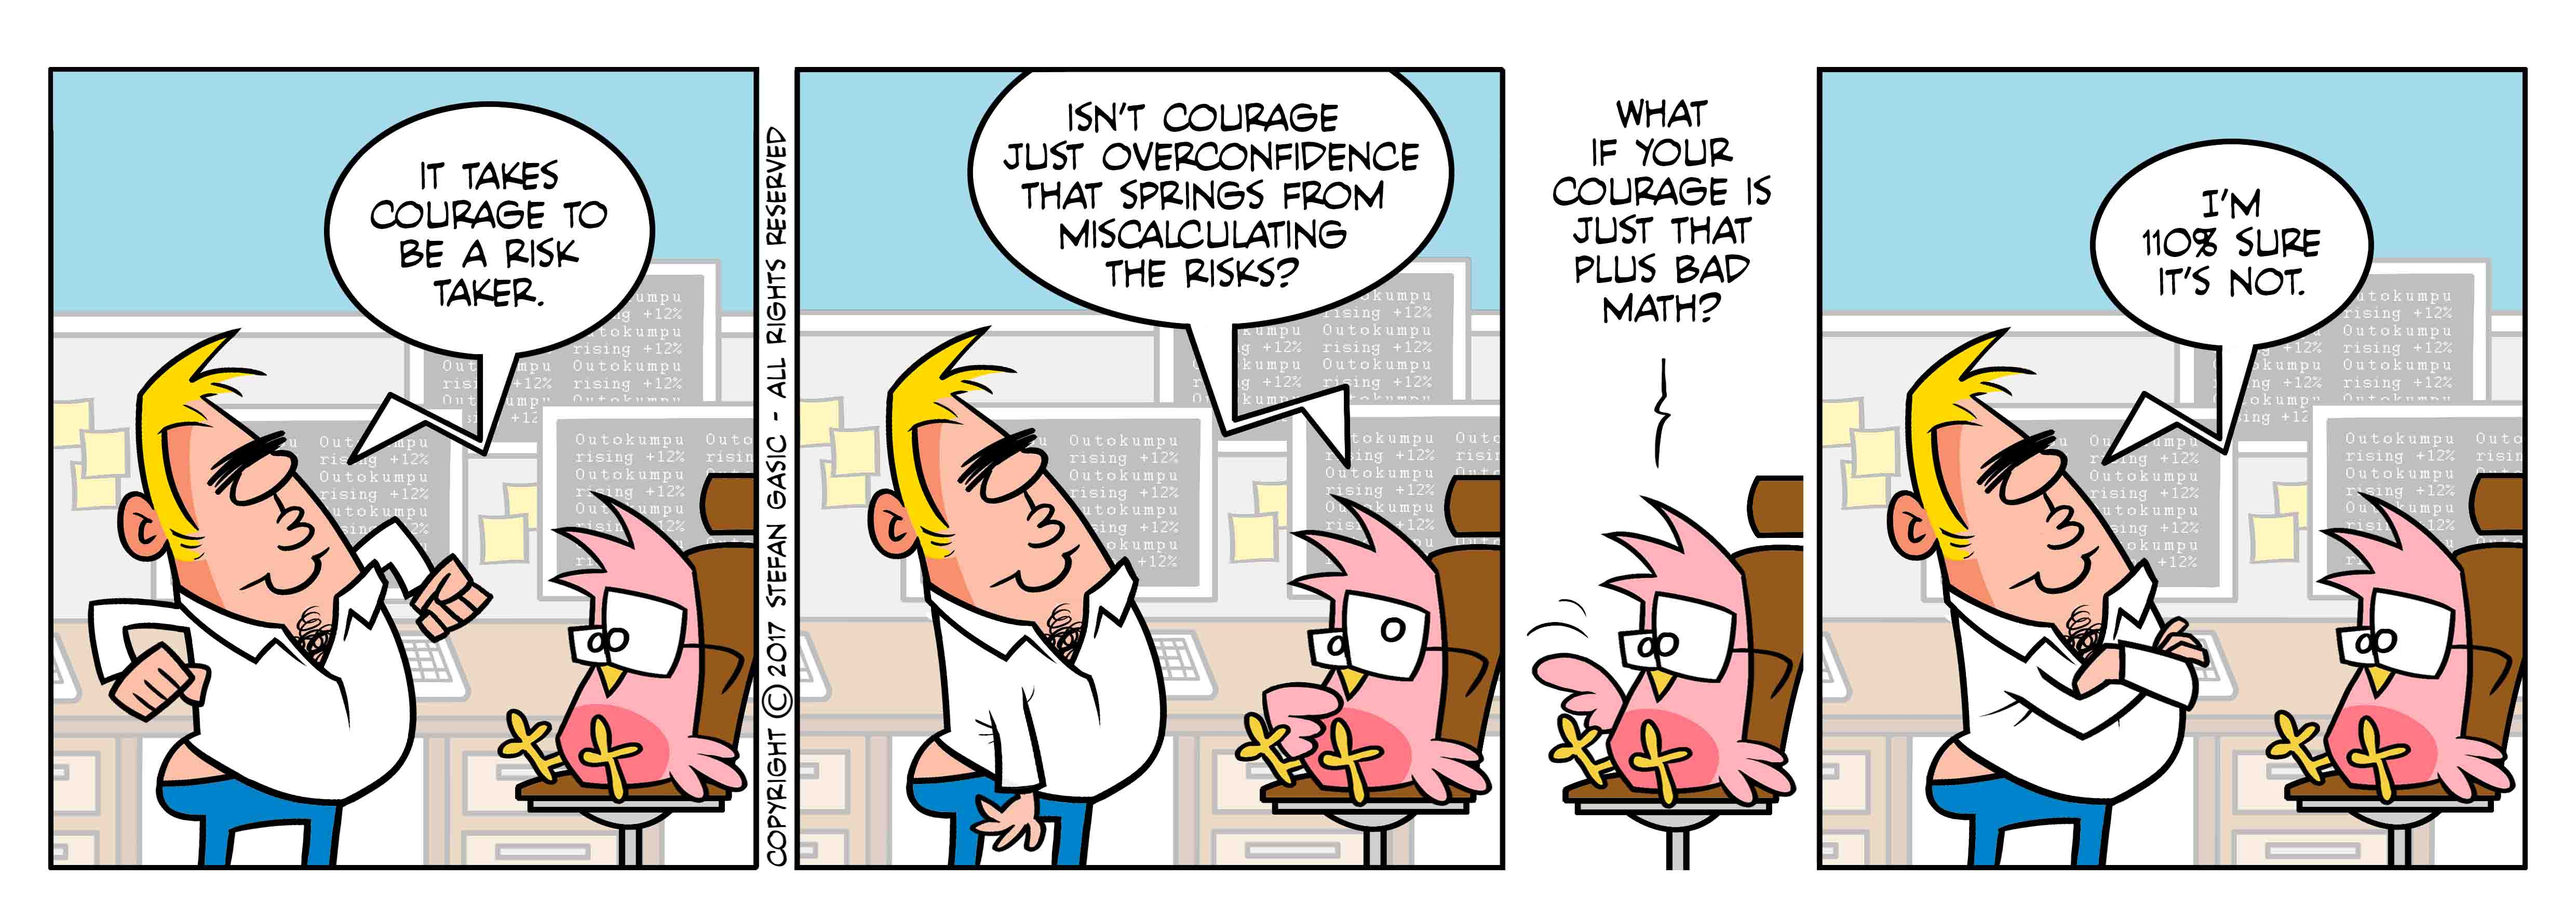
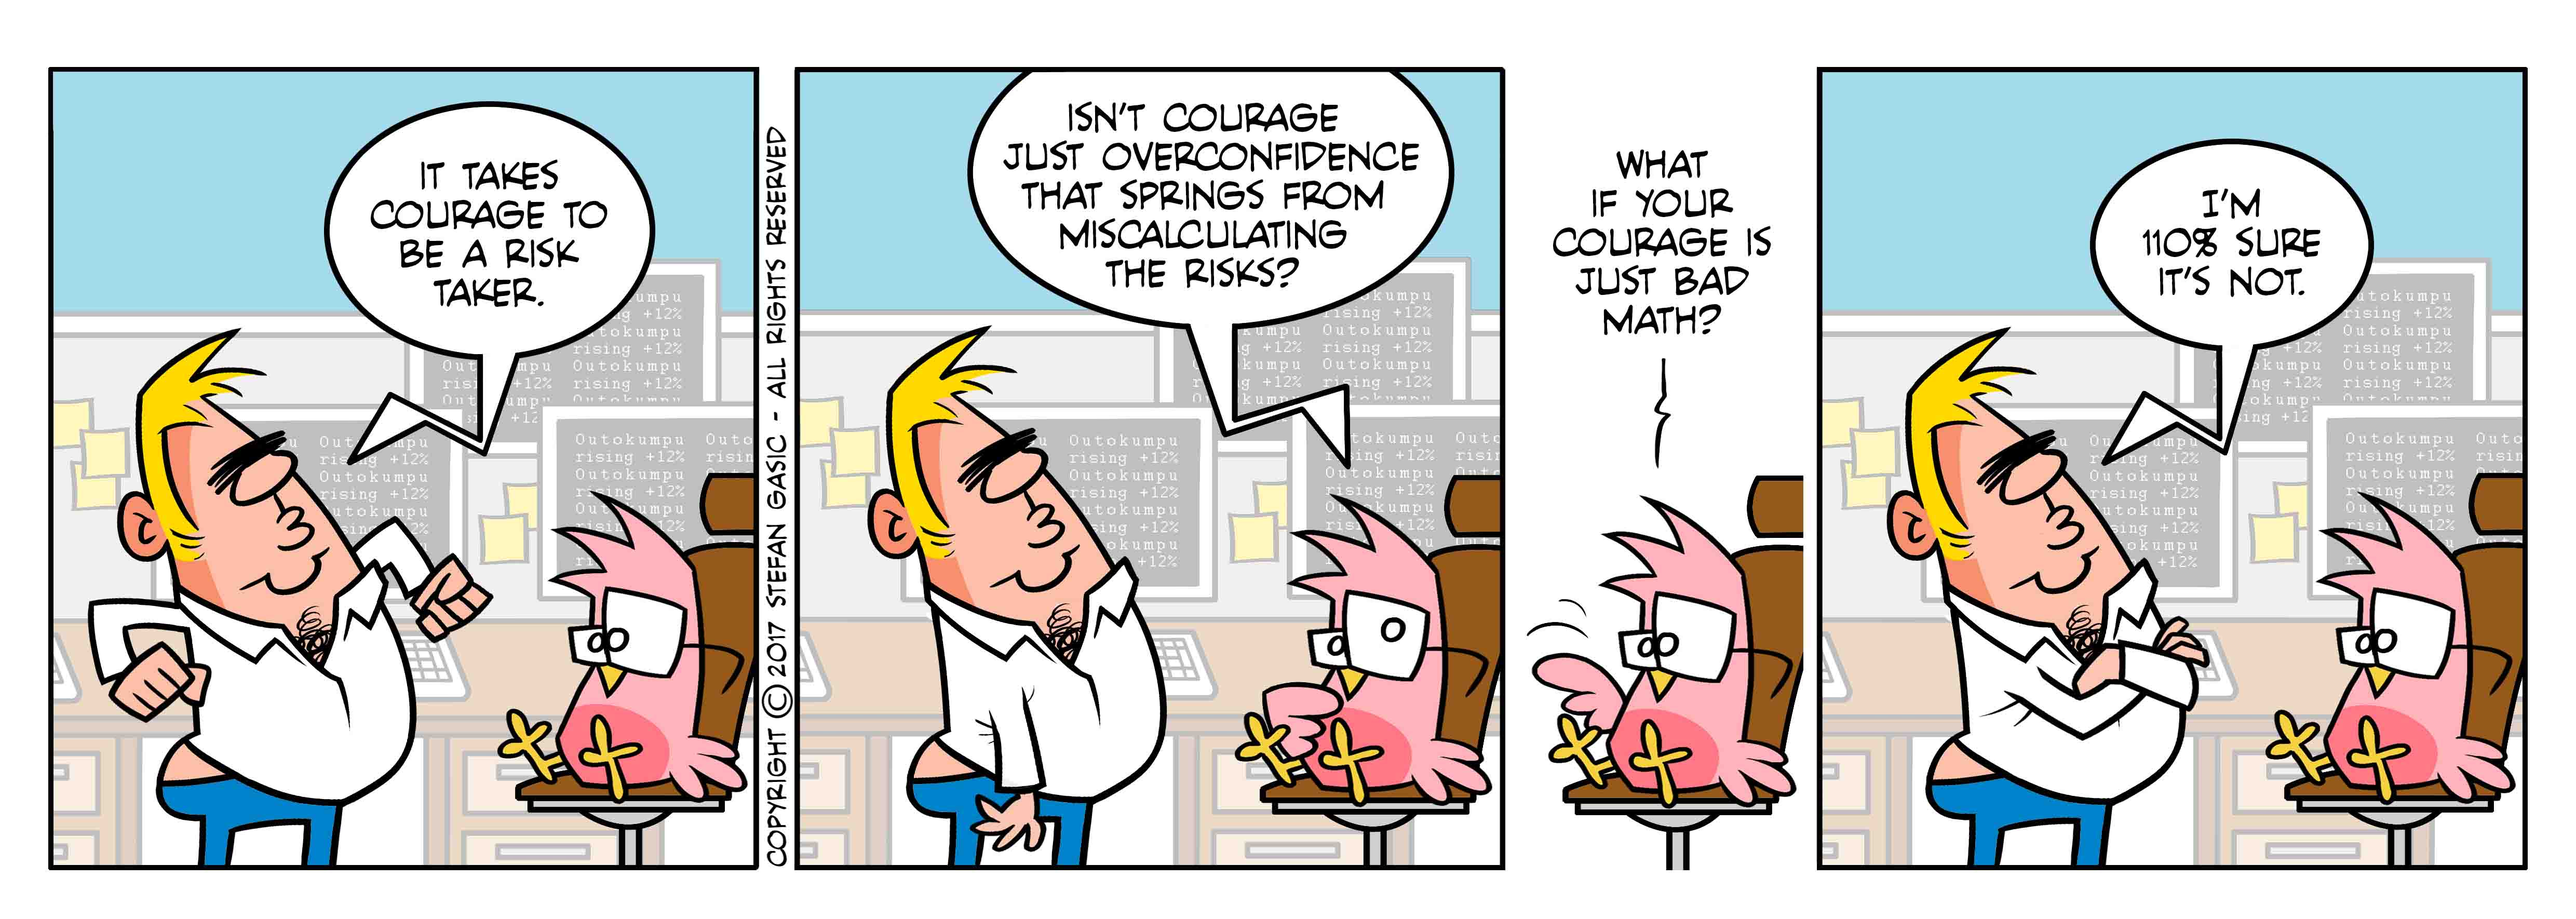
Added new strip and updated the html and js codes accordingly.

Changed region(s): [[0.5936, 0.0932, 0.6874, 0.3729]]

diff --git a/myscripts.js b/myscripts.js
@@ -1,4 +1,4 @@
-var Strips = ["images/S309.jpg","images/S308.jpg","images/S307.jpg","images/S306.jpg","images/S305.jpg","images/S304.jpg","images/S303.jpg","images/S302.jpg","images/S301.jpg","images/S300.jpg","images/S299.jpg","images/S298.jpg","images/S297.jpg","images/S296.jpg","images/S295.jpg","images/S294.jpg","images/S293.jpg","images/S292.jpg","images/S291.jpg","images/S290.jpg","images/S289.jpg","images/S288.jpg","images/S287.jpg","images/S286.jpg","images/S285.jpg","images/S284.jpg","images/S283.jpg","images/S282.jpg","images/S281.jpg","images/S280.jpg","images/S279.jpg","images/S278.jpg","images/S277.jpg","images/S276.jpg","images/S275.jpg","images/S274.jpg","images/S273.jpg","images/S272.jpg","images/S271.jpg","images/S270.jpg","images/S269.jpg","images/S268.jpg","images/S267.jpg","images/S266.jpg","images/S265.jpg","images/S264.jpg","images/S263.jpg","images/S262.jpg","images/S261.jpg","images/S260.jpg","images/S259.jpg","images/S258.jpg","images/S257.jpg","images/S256.jpg","images/S255.jpg","images/S254.jpg","images/S253.jpg","images/S252.jpg","images/S251.jpg","images/S250.jpg","images/S249.jpg","images/S248.jpg","images/S247.jpg","images/S246.jpg","images/S245.jpg","images/S244.jpg","images/S243.jpg","images/S242.jpg","images/S241.jpg","images/S240.jpg","images/S239.jpg","images/S238.jpg","images/S237.jpg","images/S236.jpg","images/S235.jpg","images/S234.jpg","images/S233.jpg","images/S232.jpg","images/S231.jpg","images/S230.jpg","images/S229.jpg","images/S228.jpg","images/S227.jpg","images/S226.jpg","images/S225.jpg","images/S224.jpg","images/S223.jpg","images/S222.jpg","images/S221.jpg","images/S220.jpg","images/S219.jpg","images/S218.jpg","images/S217.jpg","images/S216.jpg","images/S215.jpg","images/S214.jpg","images/S213.jpg","images/S212.jpg","images/S211.jpg","images/S210.jpg","images/S209.jpg","images/S208.jpg","images/S207.jpg","images/S206.jpg","images/S205.jpg","images/S204.jpg","images/S203.jpg","images/S202.jpg","images/S201.jpg","images/S200.jpg","images/S199.jpg","images/S198.jpg","images/S197.jpg","images/S196.jpg","images/S195.jpg","images/S194.jpg","images/S193.jpg","images/S192.jpg","images/S191.jpg","images/S190.jpg","images/S189.jpg","images/S188.jpg","images/S187.jpg","images/S186.jpg","images/S185.jpg","images/S184.jpg","images/S183.jpg","images/S182.jpg","images/S181.jpg","images/S180.jpg","images/S179.jpg","images/S178.jpg","images/S177.jpg","images/S176.jpg","images/S175.jpg","images/S174.jpg","images/S173.jpg","images/S172.jpg","images/S171.jpg","images/S170.jpg","images/S169.jpg","images/S168.jpg","images/S167.jpg","images/S166.jpg","images/S165.jpg","images/S164.jpg","images/S163.jpg","images/S162.jpg","images/S161.jpg","images/S160.jpg","images/S159.jpg","images/S158.jpg","images/S157.jpg","images/S156.jpg","images/S155.jpg","images/S154.jpg","images/S153.jpg","images/S152.jpg","images/S151.jpg","images/S150.jpg","images/S149.jpg","images/S148.jpg","images/S147.jpg","images/S146.jpg","images/S145.jpg","images/S144.jpg","images/S143.jpg","images/S142.jpg","images/S141.jpg","images/S140.jpg","images/S139.jpg","images/S138.jpg","images/S137.jpg","images/S136.jpg","images/S135.jpg","images/S134.jpg","images/S133.jpg","images/S132.jpg","images/S131.jpg","images/S130.jpg","images/S129.jpg","images/S128.jpg","images/S127.jpg","images/S126.jpg","images/S125.jpg","images/S124.jpg","images/S123.jpg","images/S122.jpg","images/S121.jpg","images/S120.jpg","images/S119.jpg","images/S118.jpg","images/S117.jpg","images/S116.jpg","images/S115.jpg","images/S114.jpg","images/S113.jpg","images/S112.jpg","images/S111.jpg","images/S110.jpg","images/S109.jpg","images/S108.jpg","images/S107.jpg","images/S106.jpg","images/S105.jpg","images/S104.jpg","images/S103.jpg","images/S102.jpg","images/S101.jpg","images/S100.jpg","images/S99.jpg","images/S98.jpg","images/S97.jpg","images/S96.jpg","images/S95.jpg","images/S94.jpg","images/S93.jpg","images/S92.jpg","images/S91.jpg","images/S90.jpg","images/S89.jpg","images/S88.jpg","images/S87.jpg","images/S86.jpg","images/S85.jpg","images/S84.jpg","images/S83.jpg","images/S82.jpg","images/S81.jpg","images/S80.jpg","images/S79.jpg","images/S78.jpg","images/S77.jpg","images/S76.jpg","images/S75.jpg","images/S74.jpg","images/S73.jpg","images/S72.jpg","images/S71.jpg","images/S70.jpg","images/S69.jpg","images/S68.jpg","images/S67.jpg","images/S66.jpg","images/S65.jpg","images/S64.jpg","images/S63.jpg","images/S62.jpg","images/S61.jpg","images/S60.jpg","images/S59.jpg","images/S58.jpg","images/S57.jpg","images/S56.jpg","images/S55.jpg","images/S54.jpg","images/S53.jpg","images/S52.jpg","images/S51.jpg","images/S50.jpg","images/S49.jpg","images/S48.jpg","images/S47.jpg","images/S46.jpg","images/S45.jpg","images/S44.jpg","images/S43.jpg","images/S42.jpg","images/S41.jpg","images/S40.jpg","images/S39.jpg","images/S38.jpg","images/S37.jpg","images/S36.jpg","images/S35.jpg","images/S34.jpg","images/S33.jpg","images/S32.jpg","images/S31.jpg","images/S30.jpg","images/S29.jpg","images/S28.jpg","images/S27.jpg","images/S26.jpg","images/S25.jpg","images/S24.jpg","images/S23.jpg","images/S22.jpg","images/S21.jpg","images/S20.jpg","images/S19.jpg","images/S18.jpg","images/S17.jpg","images/S16.jpg","images/S15.jpg","images/S14.jpg","images/S13.jpg","images/S12.jpg","images/S11.jpg","images/S10.jpg","images/S9.jpg","images/S8.jpg","images/S7.jpg","images/S6.jpg","images/S5.jpg","images/S4.jpg","images/S3.jpg","images/S2.jpg","images/S1.jpg"];
+var Strips = ["images/S310.jpg","images/S309.jpg","images/S308.jpg","images/S307.jpg","images/S306.jpg","images/S305.jpg","images/S304.jpg","images/S303.jpg","images/S302.jpg","images/S301.jpg","images/S300.jpg","images/S299.jpg","images/S298.jpg","images/S297.jpg","images/S296.jpg","images/S295.jpg","images/S294.jpg","images/S293.jpg","images/S292.jpg","images/S291.jpg","images/S290.jpg","images/S289.jpg","images/S288.jpg","images/S287.jpg","images/S286.jpg","images/S285.jpg","images/S284.jpg","images/S283.jpg","images/S282.jpg","images/S281.jpg","images/S280.jpg","images/S279.jpg","images/S278.jpg","images/S277.jpg","images/S276.jpg","images/S275.jpg","images/S274.jpg","images/S273.jpg","images/S272.jpg","images/S271.jpg","images/S270.jpg","images/S269.jpg","images/S268.jpg","images/S267.jpg","images/S266.jpg","images/S265.jpg","images/S264.jpg","images/S263.jpg","images/S262.jpg","images/S261.jpg","images/S260.jpg","images/S259.jpg","images/S258.jpg","images/S257.jpg","images/S256.jpg","images/S255.jpg","images/S254.jpg","images/S253.jpg","images/S252.jpg","images/S251.jpg","images/S250.jpg","images/S249.jpg","images/S248.jpg","images/S247.jpg","images/S246.jpg","images/S245.jpg","images/S244.jpg","images/S243.jpg","images/S242.jpg","images/S241.jpg","images/S240.jpg","images/S239.jpg","images/S238.jpg","images/S237.jpg","images/S236.jpg","images/S235.jpg","images/S234.jpg","images/S233.jpg","images/S232.jpg","images/S231.jpg","images/S230.jpg","images/S229.jpg","images/S228.jpg","images/S227.jpg","images/S226.jpg","images/S225.jpg","images/S224.jpg","images/S223.jpg","images/S222.jpg","images/S221.jpg","images/S220.jpg","images/S219.jpg","images/S218.jpg","images/S217.jpg","images/S216.jpg","images/S215.jpg","images/S214.jpg","images/S213.jpg","images/S212.jpg","images/S211.jpg","images/S210.jpg","images/S209.jpg","images/S208.jpg","images/S207.jpg","images/S206.jpg","images/S205.jpg","images/S204.jpg","images/S203.jpg","images/S202.jpg","images/S201.jpg","images/S200.jpg","images/S199.jpg","images/S198.jpg","images/S197.jpg","images/S196.jpg","images/S195.jpg","images/S194.jpg","images/S193.jpg","images/S192.jpg","images/S191.jpg","images/S190.jpg","images/S189.jpg","images/S188.jpg","images/S187.jpg","images/S186.jpg","images/S185.jpg","images/S184.jpg","images/S183.jpg","images/S182.jpg","images/S181.jpg","images/S180.jpg","images/S179.jpg","images/S178.jpg","images/S177.jpg","images/S176.jpg","images/S175.jpg","images/S174.jpg","images/S173.jpg","images/S172.jpg","images/S171.jpg","images/S170.jpg","images/S169.jpg","images/S168.jpg","images/S167.jpg","images/S166.jpg","images/S165.jpg","images/S164.jpg","images/S163.jpg","images/S162.jpg","images/S161.jpg","images/S160.jpg","images/S159.jpg","images/S158.jpg","images/S157.jpg","images/S156.jpg","images/S155.jpg","images/S154.jpg","images/S153.jpg","images/S152.jpg","images/S151.jpg","images/S150.jpg","images/S149.jpg","images/S148.jpg","images/S147.jpg","images/S146.jpg","images/S145.jpg","images/S144.jpg","images/S143.jpg","images/S142.jpg","images/S141.jpg","images/S140.jpg","images/S139.jpg","images/S138.jpg","images/S137.jpg","images/S136.jpg","images/S135.jpg","images/S134.jpg","images/S133.jpg","images/S132.jpg","images/S131.jpg","images/S130.jpg","images/S129.jpg","images/S128.jpg","images/S127.jpg","images/S126.jpg","images/S125.jpg","images/S124.jpg","images/S123.jpg","images/S122.jpg","images/S121.jpg","images/S120.jpg","images/S119.jpg","images/S118.jpg","images/S117.jpg","images/S116.jpg","images/S115.jpg","images/S114.jpg","images/S113.jpg","images/S112.jpg","images/S111.jpg","images/S110.jpg","images/S109.jpg","images/S108.jpg","images/S107.jpg","images/S106.jpg","images/S105.jpg","images/S104.jpg","images/S103.jpg","images/S102.jpg","images/S101.jpg","images/S100.jpg","images/S99.jpg","images/S98.jpg","images/S97.jpg","images/S96.jpg","images/S95.jpg","images/S94.jpg","images/S93.jpg","images/S92.jpg","images/S91.jpg","images/S90.jpg","images/S89.jpg","images/S88.jpg","images/S87.jpg","images/S86.jpg","images/S85.jpg","images/S84.jpg","images/S83.jpg","images/S82.jpg","images/S81.jpg","images/S80.jpg","images/S79.jpg","images/S78.jpg","images/S77.jpg","images/S76.jpg","images/S75.jpg","images/S74.jpg","images/S73.jpg","images/S72.jpg","images/S71.jpg","images/S70.jpg","images/S69.jpg","images/S68.jpg","images/S67.jpg","images/S66.jpg","images/S65.jpg","images/S64.jpg","images/S63.jpg","images/S62.jpg","images/S61.jpg","images/S60.jpg","images/S59.jpg","images/S58.jpg","images/S57.jpg","images/S56.jpg","images/S55.jpg","images/S54.jpg","images/S53.jpg","images/S52.jpg","images/S51.jpg","images/S50.jpg","images/S49.jpg","images/S48.jpg","images/S47.jpg","images/S46.jpg","images/S45.jpg","images/S44.jpg","images/S43.jpg","images/S42.jpg","images/S41.jpg","images/S40.jpg","images/S39.jpg","images/S38.jpg","images/S37.jpg","images/S36.jpg","images/S35.jpg","images/S34.jpg","images/S33.jpg","images/S32.jpg","images/S31.jpg","images/S30.jpg","images/S29.jpg","images/S28.jpg","images/S27.jpg","images/S26.jpg","images/S25.jpg","images/S24.jpg","images/S23.jpg","images/S22.jpg","images/S21.jpg","images/S20.jpg","images/S19.jpg","images/S18.jpg","images/S17.jpg","images/S16.jpg","images/S15.jpg","images/S14.jpg","images/S13.jpg","images/S12.jpg","images/S11.jpg","images/S10.jpg","images/S9.jpg","images/S8.jpg","images/S7.jpg","images/S6.jpg","images/S5.jpg","images/S4.jpg","images/S3.jpg","images/S2.jpg","images/S1.jpg"];
 
 var Current = 0;
 var myStrip = null;

diff --git a/index.html b/index.html
@@ -41,7 +41,7 @@
         <div class="count">
           <strong><span id="currentCount"></span></strong> out of <strong><span id="totalCount"></span></strong>
         </div>
-		<div class="wrap-item1"><img src="images/S308.jpg" id="Strip"/></div>
+		<div class="wrap-item1"><img src="images/S310.jpg" id="Strip"/></div>
 		<div class="wrapper3">
 			<div class="wrap-item3">
 			<button class="button" onClick="Last();">&lsaquo;&lsaquo;</button>
